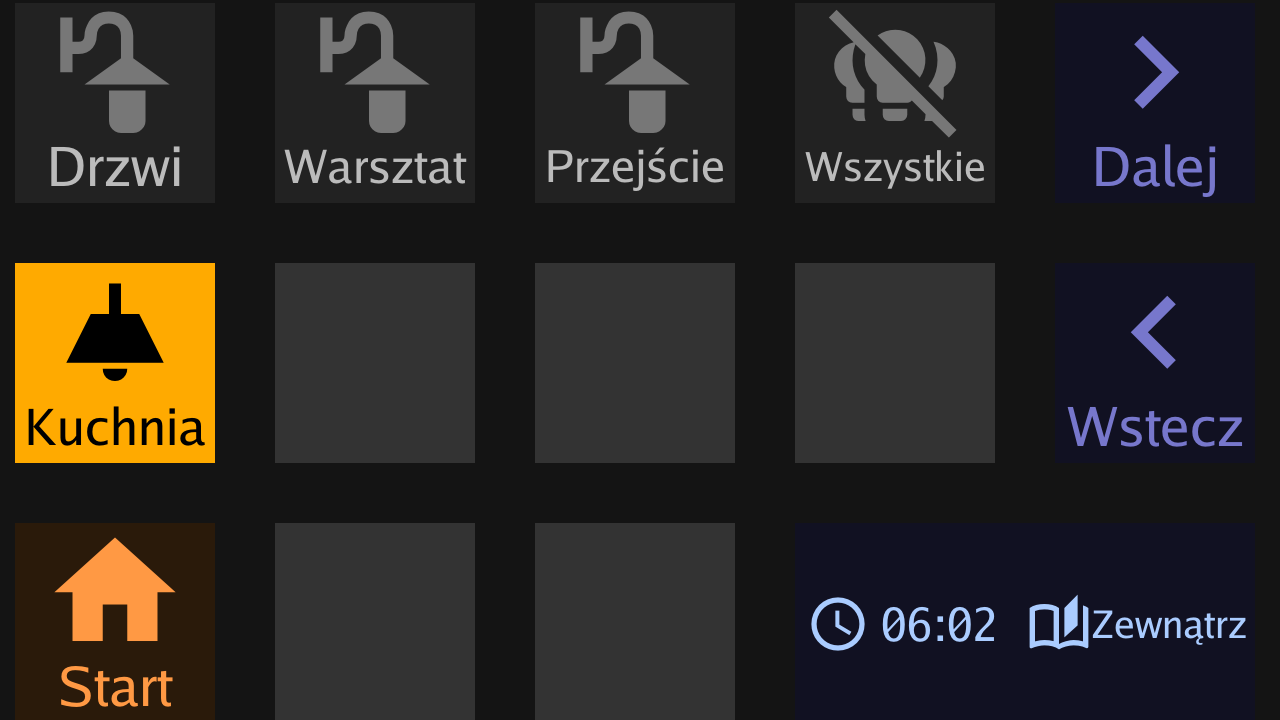
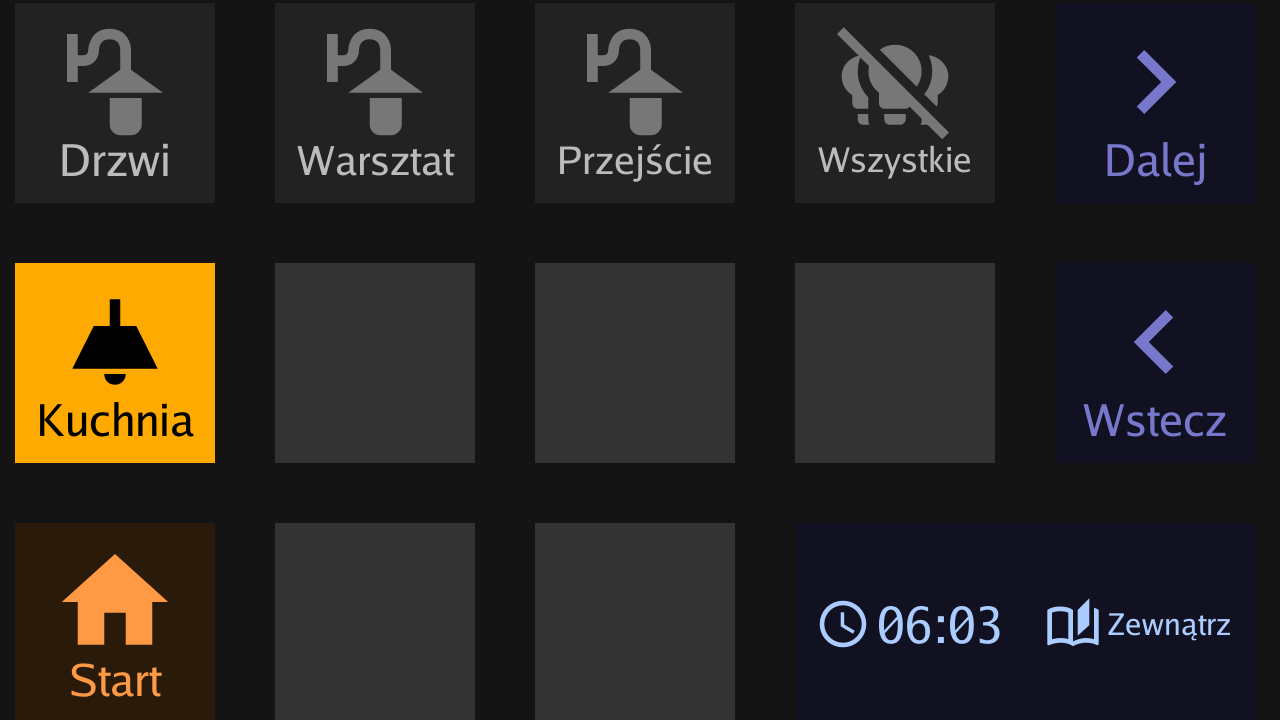
Keep a 10% margin around key content
The key windows' viewing angles are poor, so content touching the edges was
cut off when looking from an angle. entity_view content now stays within the
middle 80% of the key (sizes retuned for that box), side-by-side text keeps
the margin too, and the status bar lays each item out as an icon at the
slot's inner left edge followed by left-aligned text that fits the slot.

diff --git a/daemon/cmd/ulanzi-control/main.go b/daemon/cmd/ulanzi-control/main.go
@@ -666,29 +666,30 @@ func drawButtonContent(img *image.RGBA, i int, rect image.Rectangle, currentMode
 				hasIcon := s.IconID != ""
 				hasText1 := s.Text != ""
 				hasText2 := s.Text2 != ""
-				// Large enough to read from a distance; long labels shrink to the key's width
-				maxW := rect.Dx() - 12
+				// Large enough to read from a distance, inside a 10% margin (the key windows'
+				// viewing angles are poor); long labels shrink to the inner width
+				maxW := rect.Dx() * 8 / 10
 				t1 := func(size float64) float64 { return ui.FitSize(s.Text, size, maxW) }
 				t2 := func(size float64) float64 { return ui.FitSize(s.Text2, size, maxW) }
 
-				// MDI glyphs fill 65-85% of their font size; these fill a ~196 px key window
+				// Sized for a ~200 px key: content within cy±80. MDI glyphs fill 65-85% of their font size
 				if hasIcon {
 					if hasText1 && hasText2 {
-						ui.DrawIcon(img, cx, cy-50, 116, s.IconID, iconCol)
-						ui.DrawText(img, cx, cy+22, t1(44), s.Text, textCol)
-						ui.DrawText(img, cx, cy+70, t2(34), s.Text2, text2Col)
+						ui.DrawIcon(img, cx, cy-36, 100, s.IconID, iconCol)
+						ui.DrawText(img, cx, cy+26, t1(38), s.Text, textCol)
+						ui.DrawText(img, cx, cy+64, t2(32), s.Text2, text2Col)
 					} else if hasText1 {
-						ui.DrawIcon(img, cx, cy-34, 146, s.IconID, iconCol)
-						ui.DrawText(img, cx, cy+62, t1(54), s.Text, textCol)
+						ui.DrawIcon(img, cx, cy-24, 128, s.IconID, iconCol)
+						ui.DrawText(img, cx, cy+56, t1(44), s.Text, textCol)
 					} else {
 						ui.DrawIcon(img, cx, cy, 180, s.IconID, iconCol)
 					}
 				} else {
 					if hasText1 && hasText2 {
-						ui.DrawText(img, cx, cy-24, t1(48), s.Text, textCol)
-						ui.DrawText(img, cx, cy+40, t2(40), s.Text2, text2Col)
+						ui.DrawText(img, cx, cy-22, t1(44), s.Text, textCol)
+						ui.DrawText(img, cx, cy+34, t2(36), s.Text2, text2Col)
 					} else if hasText1 {
-						ui.DrawText(img, cx, cy, t1(56), s.Text, textCol)
+						ui.DrawText(img, cx, cy, t1(52), s.Text, textCol)
 					}
 				}
 			}
@@ -804,12 +805,12 @@ func drawSideBySide(img *image.RGBA, rect image.Rectangle, s state.ButtonState, 
 	// Left half: icon centered
 	leftCX := rect.Min.X + rect.Dx()/4
 	if s.IconID != "" {
-		ui.DrawIcon(img, leftCX, cy, 170, s.IconID, iconCol)
+		ui.DrawIcon(img, leftCX, cy, 150, s.IconID, iconCol)
 	}
 
-	// Right half: text stacked
+	// Right half: text stacked, inside a 10% margin
 	rightCX := midX + rect.Dx()/4
-	maxW := rect.Dx()/2 - 12
+	maxW := rect.Dx()/2 - rect.Dy()/5
 	if s.Text != "" && s.Text2 != "" {
 		ui.DrawText(img, rightCX, cy-26, ui.FitSize(s.Text, 48, maxW), s.Text, textCol)
 		ui.DrawText(img, rightCX, cy+34, ui.FitSize(s.Text2, 36, maxW), s.Text2, text2Col)
@@ -826,14 +827,19 @@ func drawStatusBar(img *image.RGBA, rect image.Rectangle, s state.ButtonState, i
 
 	slotW := rect.Dx() / len(items)
 	cy := rect.Min.Y + rect.Dy()/2
+	inset := rect.Dy() / 10 // 10% margin: the key windows' viewing angles are poor
 
 	for idx, item := range items {
 		slotCX := rect.Min.X + slotW*idx + slotW/2
+		// Each item: a 56 px icon at the slot's inner left edge, then left-aligned text up to the inner right edge
+		iconX := slotCX - slotW/2 + inset + 28
+		labelX := iconX + 34
+		labelW := slotCX + slotW/2 - inset - labelX
 
 		switch item {
 		case "clock":
-			ui.DrawIcon(img, slotCX-72, cy, 64, "clock-outline", textCol)
-			ui.DrawText(img, slotCX+30, cy, ui.FitSize("00:00", 56, slotW-110), time.Now().Format("15:04"), textCol)
+			ui.DrawIcon(img, iconX, cy, 56, "clock-outline", textCol)
+			ui.DrawTextLeft(img, labelX, cy, ui.FitSize("00:00", 52, labelW), time.Now().Format("15:04"), textCol)
 		case "page":
 			pages := state.GlobalStore.GetPagesList()
 			current := state.GlobalStore.CurrentPage
@@ -841,10 +847,8 @@ func drawStatusBar(img *image.RGBA, rect image.Rectangle, s state.ButtonState, i
 			if pageLabel == "" {
 				pageLabel = fmt.Sprintf("%d/%d", current+1, len(pages))
 			}
-			ui.DrawIcon(img, slotCX-slotW/2+34, cy, 64, "book-open-page-variant-outline", textCol)
-			// Start right of the icon: a centred label longer than ~4 characters ran over it
-			labelX := slotCX - slotW/2 + 66
-			ui.DrawTextLeft(img, labelX, cy, ui.FitSize(pageLabel, 48, slotCX+slotW/2-8-labelX), pageLabel, textCol)
+			ui.DrawIcon(img, iconX, cy, 56, "book-open-page-variant-outline", textCol)
+			ui.DrawTextLeft(img, labelX, cy, ui.FitSize(pageLabel, 48, labelW), pageLabel, textCol)
 		default:
 			// Unknown item: render s.Text or the item name
 			txt := s.Text
